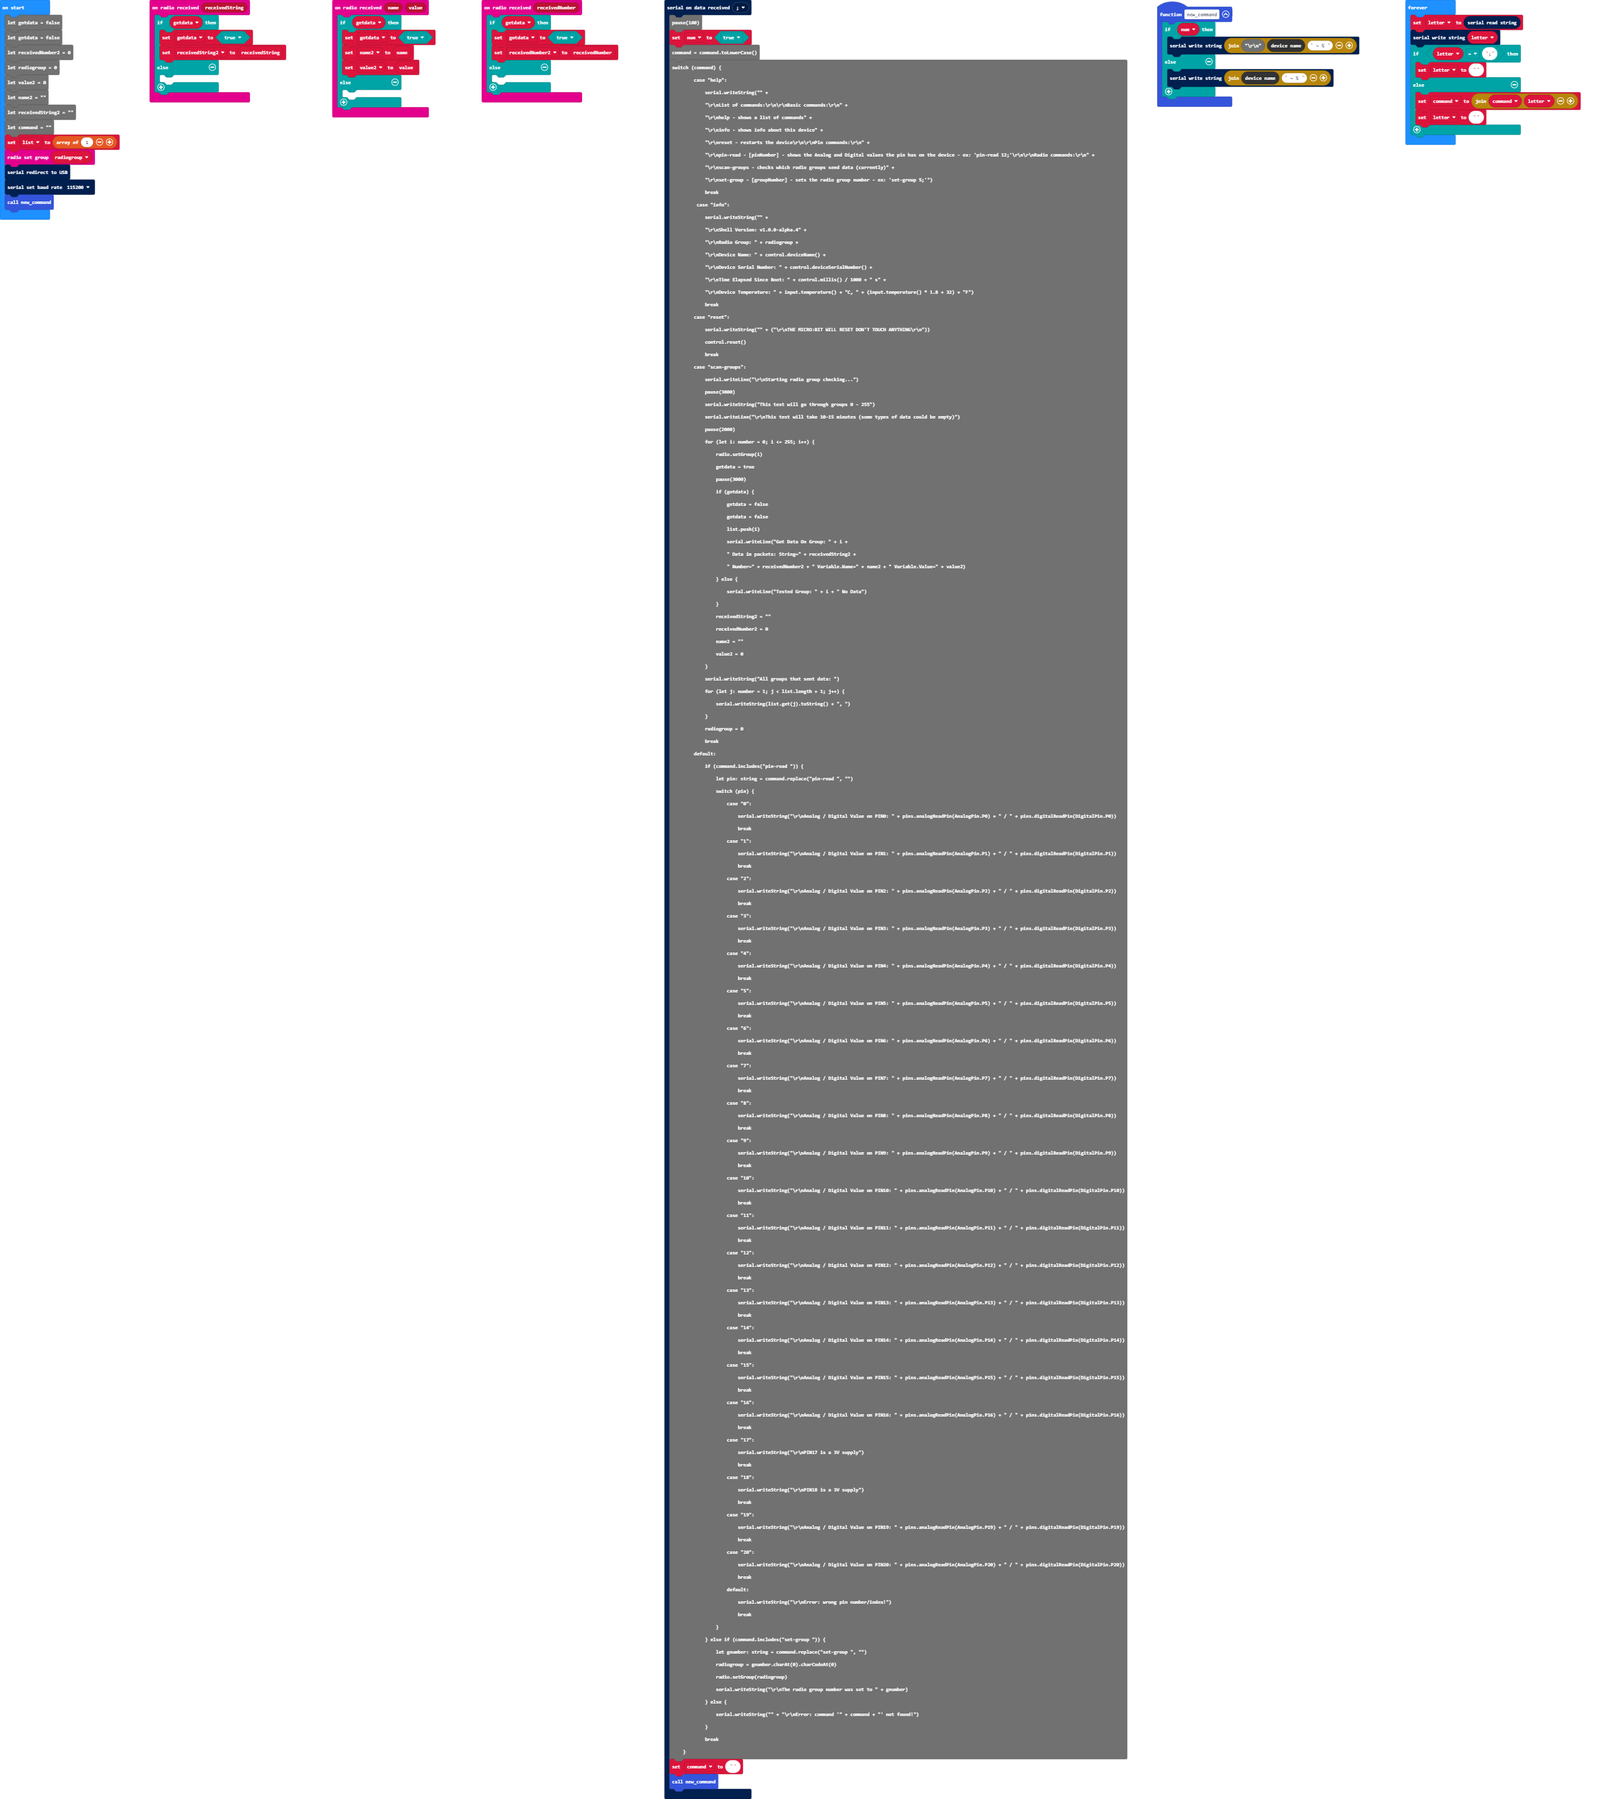
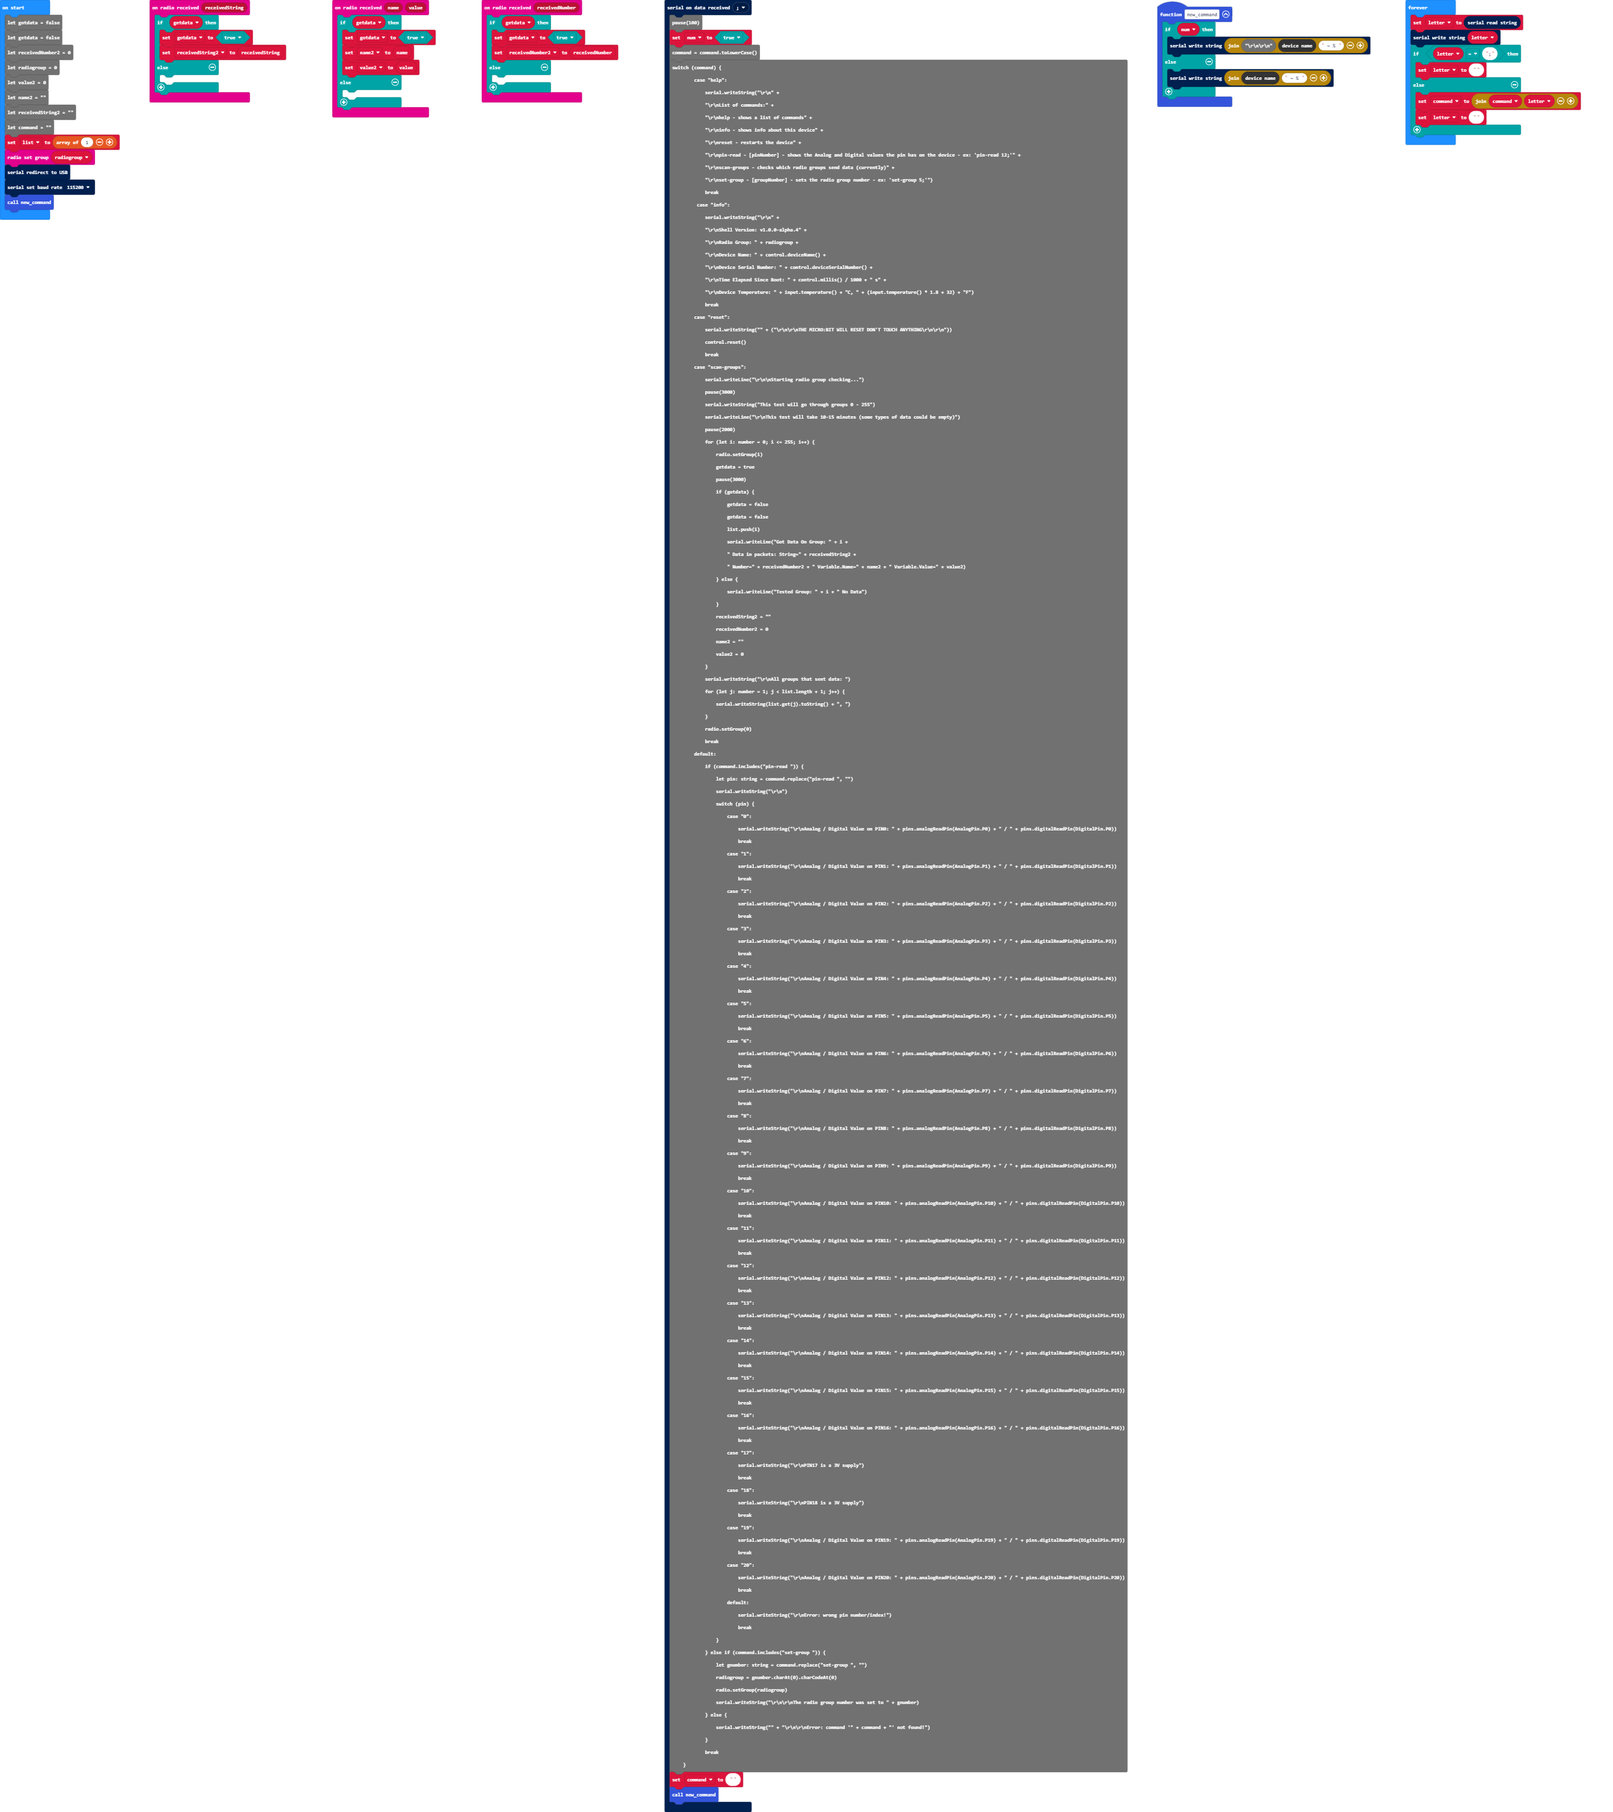
half done shell rewrite and new commands

diff --git a/main.ts b/main.ts
@@ -9,6 +9,7 @@ let list = [1]
 let num = false
 let getdata = false
 let gotdata = false
+let env = "home"
 radio.setGroup(radiogroup)
 serial.redirectToUSB()
 serial.setBaudRate(BaudRate.BaudRate115200)
@@ -25,10 +26,13 @@ basic.forever(function () {
 })
 function new_command () {
     if (num) {
-        serial.writeString("" + "\r\n" + control.deviceName() + " ~ % ")
+        serial.writeString("" + "\r\n\r\n" + control.deviceName() + " ~ % ")
     } else {
         serial.writeString("" + control.deviceName() + " ~ % ")
     }
+}
+function new_radio_command () {
+    serial.writeString("" + "\r\n\r\n" + control.deviceName() + "/radio >> ")
 }
 radio.onReceivedString(function (receivedString: string) {
     if (getdata) {
@@ -57,144 +61,128 @@ radio.onReceivedNumber(function (receivedNumber: number) {
 })
 serial.onDataReceived(serial.delimiters(Delimiters.SemiColon), function () {
     pause(100)
-    num = true
-    command = command.toLowerCase()
-    switch (command) {
-        case "help":
-            serial.writeString("" + 
-            "\r\nList of commands:\r\n\r\nBasic commands:\r\n" + 
-            "\r\nhelp - shows a list of commands" + 
-            "\r\ninfo - shows info about this device" + 
-            "\r\nreset - restarts the device\r\n\r\nPin commands:\r\n" + 
-            "\r\npin-read - [pinNumber] - shows the Analog and Digital values the pin has on the device - ex: 'pin-read 12;'\r\n\r\nRadio commands:\r\n" +
-            "\r\nscan-groups - checks which radio groups send data (currently)" +
-            "\r\nset-group - [groupNumber] - sets the radio group number - ex: 'set-group 5;'")
-            break
-         case "info":
-            serial.writeString("" + 
-            "\r\nShell Version: v1.0.0-alpha.4" + 
-            "\r\nRadio Group: " + radiogroup +
-            "\r\nDevice Name: " + control.deviceName() + 
-            "\r\nDevice Serial Number: " + control.deviceSerialNumber() + 
-            "\r\nTime Elapsed Since Boot: " + control.millis() / 1000 + " s" + 
-            "\r\nDevice Temperature: " + input.temperature() + "C, " + (input.temperature() * 1.8 + 32) + "F")
-            break
-        case "reset":
-            serial.writeString("" + ("\r\nTHE MICRO:BIT WILL RESET DON'T TOUCH ANYTHING\r\n"))
-            control.reset()
-            break
-        case "scan-groups":
-            serial.writeLine("\r\nStarting radio group checking...")
-            pause(3000)
-            serial.writeString("This test will go through groups 0 - 255")
-            serial.writeLine("\r\nThis test will take 10-15 minutes (some types of data could be empty)")
-            pause(2000)
-            for (let i: number = 0; i <= 255; i++) {
-                radio.setGroup(i)
-                getdata = true
-                pause(3000)
-                if (gotdata) {
-                    getdata = false
-                    gotdata = false
-                    list.push(i)
-                    serial.writeLine("Got Data On Group: " + i + 
-                    " Data in packets: String=" + receivedString2 + 
-                    " Number=" + receivedNumber2 + " Variable.Name=" + name2 + " Variable.Value=" + value2)
-                } else {
-                    serial.writeLine("Tested Group: " + i + " No Data")
-                }
-                receivedString2 = ""
-                receivedNumber2 = 0
-                name2 = ""
-                value2 = 0
+    switch (env) {
+        case "home":
+            num = true
+            command = command.toLowerCase()
+            switch (command) {
+                case "help":
+                    serial.writeString("\r\n" + 
+                    "\r\nList of commands:" + 
+                    "\r\nhelp - shows a list of commands" + 
+                    "\r\ninfo - shows info about this device" + 
+                    "\r\nreset - restarts the device" + 
+                    "\r\necho - [message] - repeats your message - ex: 'echo Hello World!;'" + 
+                    "\r\npin-read - [pinNumber] - shows the Analog and Digital values the pin has on the device - ex: 'pin-read 12;'" +
+                    "\r\nradio - goes to the radio program, where you can use the radio functions")
+                    break
+                case "info":
+                    serial.writeString("\r\n" + 
+                    "\r\nShell Version: v1.0.0-alpha.4" + 
+                    "\r\nRadio Group: " + radiogroup +
+                    "\r\nDevice Name: " + control.deviceName() + 
+                    "\r\nDevice Serial Number: " + control.deviceSerialNumber() + 
+                    "\r\nTime Elapsed Since Boot: " + control.millis() / 1000 + " s" + 
+                    "\r\nDevice Temperature: " + input.temperature() + "C, " + (input.temperature() * 1.8 + 32) + "F")
+                    break
+                case "reset":
+                    serial.writeString("" + ("\r\n\r\nTHE MICRO:BIT WILL RESET DON'T TOUCH ANYTHING\r\n\r\n"))
+                    control.reset()
+                    break
+                case "radio":
+                    break
+                 default:
+                    if (command.includes("pin-read ")) {
+                        let pin: string = command.replace("pin-read ", "")
+                        serial.writeString("\r\n")
+                        switch (pin) {
+                            case "0":
+                                serial.writeString("\r\nAnalog / Digital Value on PIN0: " + pins.analogReadPin(AnalogPin.P0) + " / " + pins.digitalReadPin(DigitalPin.P0))
+                                break
+                            case "1":
+                                serial.writeString("\r\nAnalog / Digital Value on PIN1: " + pins.analogReadPin(AnalogPin.P1) + " / " + pins.digitalReadPin(DigitalPin.P1))
+                                break
+                            case "2":
+                                serial.writeString("\r\nAnalog / Digital Value on PIN2: " + pins.analogReadPin(AnalogPin.P2) + " / " + pins.digitalReadPin(DigitalPin.P2))
+                                break
+                            case "3":
+                                serial.writeString("\r\nAnalog / Digital Value on PIN3: " + pins.analogReadPin(AnalogPin.P3) + " / " + pins.digitalReadPin(DigitalPin.P3))
+                                break
+                            case "4":
+                                serial.writeString("\r\nAnalog / Digital Value on PIN4: " + pins.analogReadPin(AnalogPin.P4) + " / " + pins.digitalReadPin(DigitalPin.P4))
+                                break
+                            case "5":
+                                serial.writeString("\r\nAnalog / Digital Value on PIN5: " + pins.analogReadPin(AnalogPin.P5) + " / " + pins.digitalReadPin(DigitalPin.P5))
+                                break
+                            case "6":
+                                serial.writeString("\r\nAnalog / Digital Value on PIN6: " + pins.analogReadPin(AnalogPin.P6) + " / " + pins.digitalReadPin(DigitalPin.P6))
+                                break
+                            case "7":
+                                serial.writeString("\r\nAnalog / Digital Value on PIN7: " + pins.analogReadPin(AnalogPin.P7) + " / " + pins.digitalReadPin(DigitalPin.P7))
+                                break
+                            case "8":
+                                serial.writeString("\r\nAnalog / Digital Value on PIN8: " + pins.analogReadPin(AnalogPin.P8) + " / " + pins.digitalReadPin(DigitalPin.P8))
+                                break
+                            case "9":
+                                serial.writeString("\r\nAnalog / Digital Value on PIN9: " + pins.analogReadPin(AnalogPin.P9) + " / " + pins.digitalReadPin(DigitalPin.P9))
+                                break
+                            case "10":
+                                serial.writeString("\r\nAnalog / Digital Value on PIN10: " + pins.analogReadPin(AnalogPin.P10) + " / " + pins.digitalReadPin(DigitalPin.P10))
+                                break
+                            case "11":
+                                serial.writeString("\r\nAnalog / Digital Value on PIN11: " + pins.analogReadPin(AnalogPin.P11) + " / " + pins.digitalReadPin(DigitalPin.P11))
+                                break
+                            case "12":
+                                serial.writeString("\r\nAnalog / Digital Value on PIN12: " + pins.analogReadPin(AnalogPin.P12) + " / " + pins.digitalReadPin(DigitalPin.P12))
+                                break
+                            case "13":
+                                serial.writeString("\r\nAnalog / Digital Value on PIN13: " + pins.analogReadPin(AnalogPin.P13) + " / " + pins.digitalReadPin(DigitalPin.P13))
+                                break
+                            case "14":
+                                serial.writeString("\r\nAnalog / Digital Value on PIN14: " + pins.analogReadPin(AnalogPin.P14) + " / " + pins.digitalReadPin(DigitalPin.P14))
+                                break
+                            case "15":
+                                serial.writeString("\r\nAnalog / Digital Value on PIN15: " + pins.analogReadPin(AnalogPin.P15) + " / " + pins.digitalReadPin(DigitalPin.P15))
+                                break
+                            case "16":
+                                serial.writeString("\r\nAnalog / Digital Value on PIN16: " + pins.analogReadPin(AnalogPin.P16) + " / " + pins.digitalReadPin(DigitalPin.P16))
+                                break
+                            case "17":
+                                serial.writeString("\r\nPIN17 is a 3V supply")
+                                break
+                            case "18":
+                                serial.writeString("\r\nPIN18 is a 3V supply")
+                                break
+                            case "19":
+                                serial.writeString("\r\nAnalog / Digital Value on PIN19: " + pins.analogReadPin(AnalogPin.P19) + " / " + pins.digitalReadPin(DigitalPin.P19))
+                                break
+                            case "20":
+                                serial.writeString("\r\nAnalog / Digital Value on PIN20: " + pins.analogReadPin(AnalogPin.P20) + " / " + pins.digitalReadPin(DigitalPin.P20))
+                                break
+                            default:
+                                serial.writeString("\r\nError: wrong pin number/index!")
+                                break
+                        }
+                    } else if (command.includes("echo ")) {
+                        let message = command.replace("echo ", "")
+                        serial.writeString("\r\n\r\n" + message)
+                    } else {
+                        serial.writeString("" + "\r\n\r\nError: command '" + command + "' not found!")
+                    }
+                    break
             }
-            serial.writeString("All groups that sent data: ")
-            for (let i: number = 1; i < list.length + 1; i++) {
-                serial.writeString(list.get(i).toString() + ", ")
-            }
-            radiogroup = 0
+            command = ""
+            new_command()
             break
-        default:
-            if (command.includes("pin-read ")) {
-                let pin: string = command.replace("pin-read ", "")
-                switch (pin) {
-                    case "0":
-                        serial.writeString("\r\nAnalog / Digital Value on PIN0: " + pins.analogReadPin(AnalogPin.P0) + " / " + pins.digitalReadPin(DigitalPin.P0))
-                        break
-                    case "1":
-                        serial.writeString("\r\nAnalog / Digital Value on PIN1: " + pins.analogReadPin(AnalogPin.P1) + " / " + pins.digitalReadPin(DigitalPin.P1))
-                        break
-                    case "2":
-                        serial.writeString("\r\nAnalog / Digital Value on PIN2: " + pins.analogReadPin(AnalogPin.P2) + " / " + pins.digitalReadPin(DigitalPin.P2))
-                        break
-                    case "3":
-                        serial.writeString("\r\nAnalog / Digital Value on PIN3: " + pins.analogReadPin(AnalogPin.P3) + " / " + pins.digitalReadPin(DigitalPin.P3))
-                        break
-                    case "4":
-                        serial.writeString("\r\nAnalog / Digital Value on PIN4: " + pins.analogReadPin(AnalogPin.P4) + " / " + pins.digitalReadPin(DigitalPin.P4))
-                        break
-                    case "5":
-                        serial.writeString("\r\nAnalog / Digital Value on PIN5: " + pins.analogReadPin(AnalogPin.P5) + " / " + pins.digitalReadPin(DigitalPin.P5))
-                        break
-                    case "6":
-                        serial.writeString("\r\nAnalog / Digital Value on PIN6: " + pins.analogReadPin(AnalogPin.P6) + " / " + pins.digitalReadPin(DigitalPin.P6))
-                        break
-                    case "7":
-                        serial.writeString("\r\nAnalog / Digital Value on PIN7: " + pins.analogReadPin(AnalogPin.P7) + " / " + pins.digitalReadPin(DigitalPin.P7))
-                        break
-                    case "8":
-                        serial.writeString("\r\nAnalog / Digital Value on PIN8: " + pins.analogReadPin(AnalogPin.P8) + " / " + pins.digitalReadPin(DigitalPin.P8))
-                        break
-                    case "9":
-                        serial.writeString("\r\nAnalog / Digital Value on PIN9: " + pins.analogReadPin(AnalogPin.P9) + " / " + pins.digitalReadPin(DigitalPin.P9))
-                        break
-                    case "10":
-                        serial.writeString("\r\nAnalog / Digital Value on PIN10: " + pins.analogReadPin(AnalogPin.P10) + " / " + pins.digitalReadPin(DigitalPin.P10))
-                        break
-                    case "11":
-                        serial.writeString("\r\nAnalog / Digital Value on PIN11: " + pins.analogReadPin(AnalogPin.P11) + " / " + pins.digitalReadPin(DigitalPin.P11))
-                        break
-                    case "12":
-                        serial.writeString("\r\nAnalog / Digital Value on PIN12: " + pins.analogReadPin(AnalogPin.P12) + " / " + pins.digitalReadPin(DigitalPin.P12))
-                        break
-                    case "13":
-                        serial.writeString("\r\nAnalog / Digital Value on PIN13: " + pins.analogReadPin(AnalogPin.P13) + " / " + pins.digitalReadPin(DigitalPin.P13))
-                        break
-                    case "14":
-                        serial.writeString("\r\nAnalog / Digital Value on PIN14: " + pins.analogReadPin(AnalogPin.P14) + " / " + pins.digitalReadPin(DigitalPin.P14))
-                        break
-                    case "15":
-                        serial.writeString("\r\nAnalog / Digital Value on PIN15: " + pins.analogReadPin(AnalogPin.P15) + " / " + pins.digitalReadPin(DigitalPin.P15))
-                        break
-                    case "16":
-                        serial.writeString("\r\nAnalog / Digital Value on PIN16: " + pins.analogReadPin(AnalogPin.P16) + " / " + pins.digitalReadPin(DigitalPin.P16))
-                        break
-                    case "17":
-                        serial.writeString("\r\nPIN17 is a 3V supply")
-                        break
-                    case "18":
-                        serial.writeString("\r\nPIN18 is a 3V supply")
-                        break
-                    case "19":
-                        serial.writeString("\r\nAnalog / Digital Value on PIN19: " + pins.analogReadPin(AnalogPin.P19) + " / " + pins.digitalReadPin(DigitalPin.P19))
-                        break
-                    case "20":
-                        serial.writeString("\r\nAnalog / Digital Value on PIN20: " + pins.analogReadPin(AnalogPin.P20) + " / " + pins.digitalReadPin(DigitalPin.P20))
-                        break
-                    default:
-                        serial.writeString("\r\nError: wrong pin number/index!")
-                        break
-                }
-            } else if (command.includes("set-group ")) {
-                let gnumber: string = command.replace("set-group ", "")
-                radiogroup = gnumber.charAt(0).charCodeAt(0)
-                radio.setGroup(radiogroup)
-                serial.writeString("\r\nThe radio group number was set to " + gnumber)
-            } else {
-                serial.writeString("" + "\r\nError: command '" + command + "' not found!")
-            }
+        case "radio":
+            break
+        case "pins":
+            break
+        case "leds":
+            break
+        case "sound":
+            break
+        case "overheat":
             break
     }
-    command = ""
-    new_command()
 })
